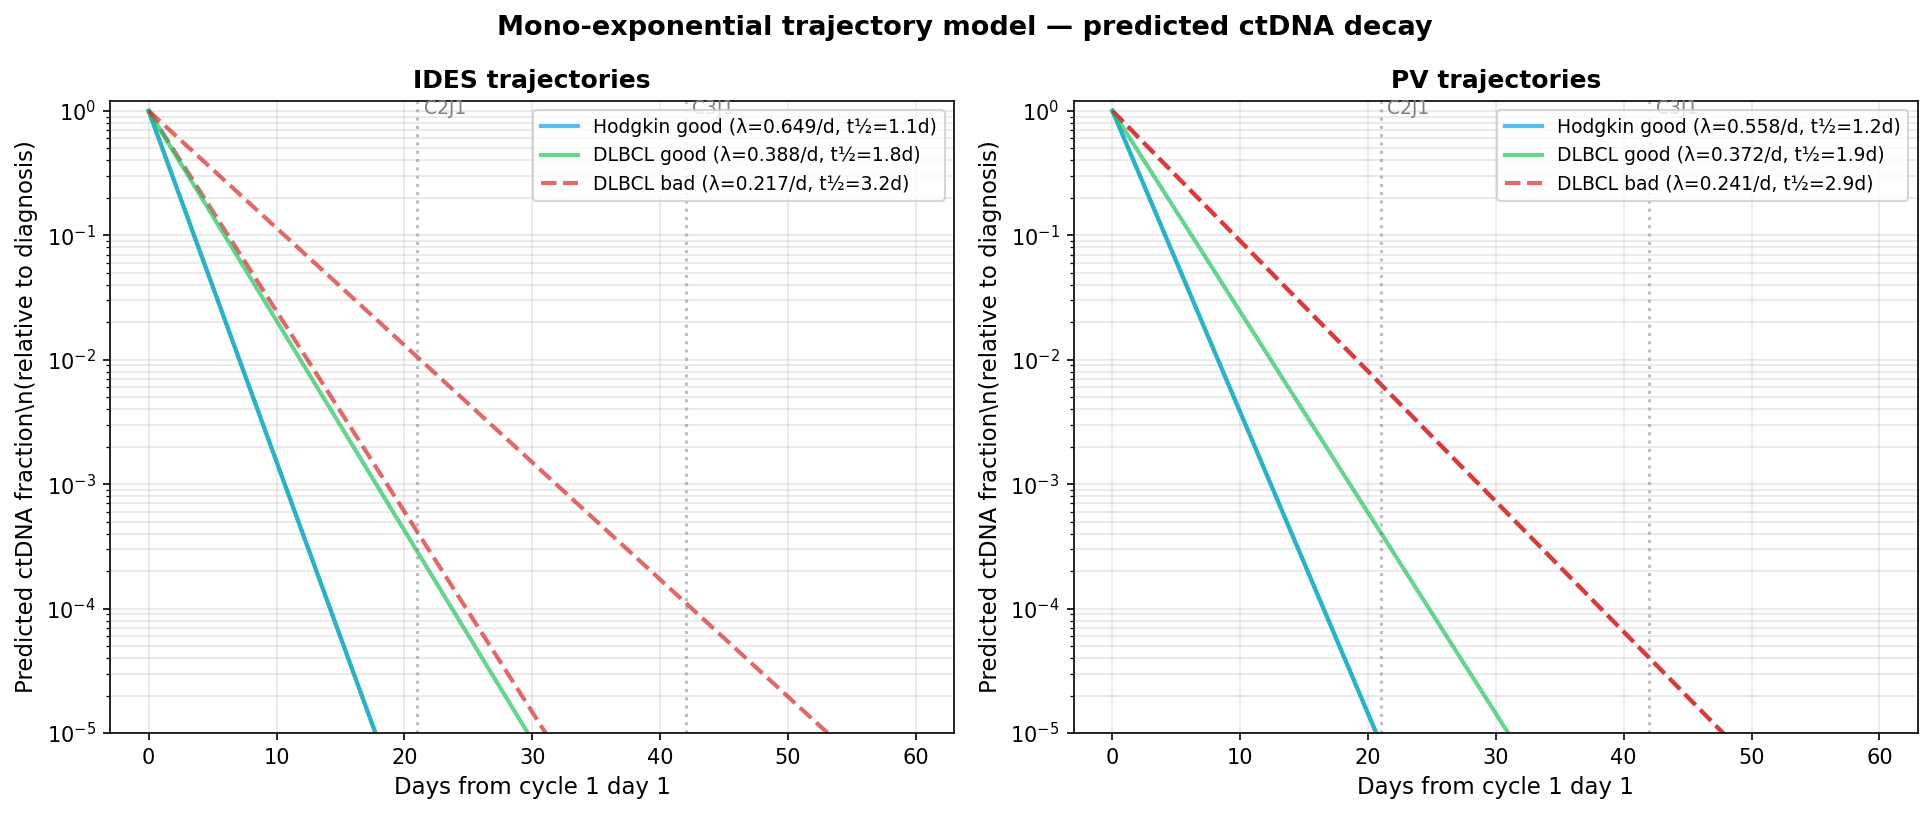
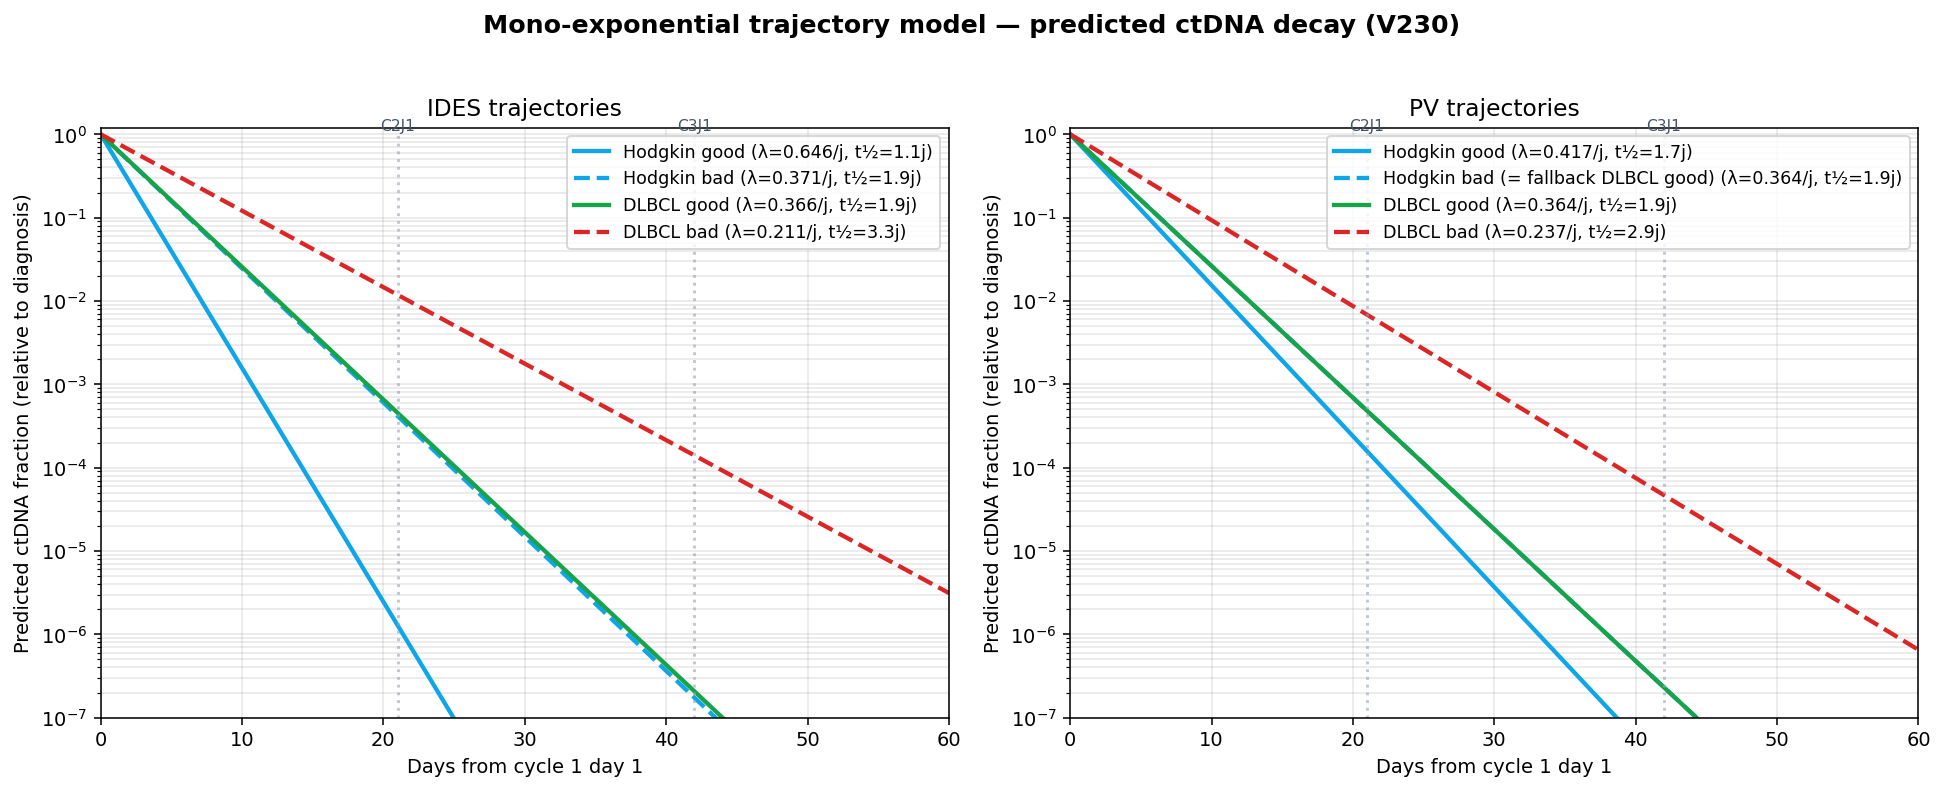
3 review fixes: trajectory legend, partial pooling combos, Tern KM legend
Three user-reported issues from methodology review:

1) §VII Trajectories figure missing 'Hodgkin bad' line in IDES panel
   - Regenerated Fig_trajectories.png with all 4 trajectories per
     pipeline (Hodgkin good/bad solid+dashed cyan, DLBCL good green,
     DLBCL bad red dashed)
   - V230 lambdas displayed (IDES Hodgkin: 0.646/0.371, DLBCL:
     0.367/0.211 ; PV with Hodgkin bad = fallback DLBCL good annotation)
   - Script: _v15_281_fig_trajectories_V230.py

2) §VIII Partial pooling: needed more combinations than the 5 nested
   - Full scan of all 2⁴ = 16 partial pooling combinations on V230 EFS
   - Refitted Cox stratified pipeline + cluster-robust on NOM for each
   - Table now shows 16 combinations grouped by n_shared (0, 1, 2, 3, 4)
     with n_params, AIC, C-IDES, C-PV, LR vs A, df, p-value
   - Findings: B' (score + log_burden + Deauville) remains optimal AIC
     (305.79). Only v5A_gated rejects partial pooling when shared alone
     (LR p=0.041 ❌). The 'score + burden + v5A (no TEP)' combo user
     asked about: AIC=314.36, p=0.93 — compatible but worse than B'.
   - Script: _v15_282_partial_pooling_full_scan.py

3) §IX Tern KM legend was inside the plot, hiding curves
   - Updated V275 script: legend moved OUTSIDE figure right via
     bbox_to_anchor=(1.02, 1.0). Figure widened to 17×6 (was 15×6) to
     accommodate the legend column. KM curves now fully visible.

diff --git a/methodology.html b/methodology.html
@@ -433,16 +433,43 @@ S(t | x) = S₀(t)<sup>exp(LP)</sup>   avec S₀ stratifiée pipeline (IDES ou P
 <h2 id="sec-partial-pooling">VIII. Partial pooling IDES = PV (justification)</h2>
 <p>Tester si les coefficients β_score, β_burden et β_TEP peuvent être <strong>partagés</strong> entre IDES et PV pour stabiliser l'estimation (plus de patients dans chaque équation), tout en gardant β_v5A pipeline-spécifique (échelles Reads_alt IDES vs UMI PV différentes).</p>
 
-<h3>Comparaison de 5 modèles emboîtés (LR test, cluster-robust sur NOM)</h3>
-<table>
-<tr><th>Modèle</th><th>Coefs partagés IDES↔PV</th><th>params M2</th><th>AIC M2</th><th>LR vs A</th></tr>
-<tr><td>A</td><td>aucun (séparé total)</td><td>8</td><td>269.60</td><td>ref</td></tr>
-<tr><td>B</td><td>TEP + burden</td><td>6</td><td>265.80</td><td>p = 0.91 ✓</td></tr>
-<tr><td><strong>B′ (production)</strong></td><td><strong>TEP + burden + score</strong></td><td><strong>5</strong></td><td><strong>263.80</strong></td><td><strong>p = 0.98 ✓</strong></td></tr>
-<tr><td>C</td><td>TEP + burden + v5A</td><td>5</td><td>276.28</td><td>p = 0.005 ❌</td></tr>
-<tr><td>D</td><td>tout partagé (incl. v5A)</td><td>4</td><td>274.43</td><td>p = 0.01 ❌</td></tr>
+<h3>Comparaison exhaustive : 16 combinaisons de partial pooling (V230 EFS)</h3>
+<p>Sur la cohorte stackée IDES+PV M2_hEq Deauv (N=227, 42 events), on a refitté Cox stratifié pipeline avec cluster-robust sur NOM, pour <strong>toutes</strong> les combinaisons possibles de coefs partagés entre IDES et PV (2⁴ = 16 sous-ensembles des 4 covariables). LR test contre le modèle A (aucun partagé, 8 paramètres) :</p>
+<table style="font-size:12.5px;">
+<tr><th>Coefs partagés IDES↔PV</th><th>n_params</th><th>AIC</th><th>C-IDES</th><th>C-PV</th><th>LR vs A</th><th>df</th><th>p</th><th></th></tr>
+
+<tr style="background:#fff8e1;"><td><em>A. aucun (séparé total)</em></td><td>8</td><td>319.89</td><td>0.839</td><td>0.919</td><td>ref</td><td>0</td><td>—</td><td></td></tr>
+
+<tr><td colspan="9" style="background:#f1f5f9; font-style:italic; color:#64748b; font-size:11px;">— Partial pooling de 1 covariable (n_params = 7) —</td></tr>
+<tr><td>Deauville_num seul</td><td>7</td><td>313.79</td><td>0.834</td><td>0.912</td><td>0.0</td><td>1</td><td>1.00 ✓</td><td></td></tr>
+<tr><td>log_burden seul</td><td>7</td><td>314.45</td><td>0.845</td><td>0.928</td><td>0.0</td><td>1</td><td>1.00 ✓</td><td></td></tr>
+<tr><td>score_kin seul</td><td>7</td><td>317.43</td><td>0.838</td><td>0.921</td><td>0.0</td><td>1</td><td>1.00 ✓</td><td></td></tr>
+<tr><td>v5A_gated seul</td><td>7</td><td>322.05</td><td>0.837</td><td>0.922</td><td>4.16</td><td>1</td><td><strong>0.041 ❌</strong></td><td>v5A pipeline-spé</td></tr>
+
+<tr><td colspan="9" style="background:#f1f5f9; font-style:italic; color:#64748b; font-size:11px;">— Partial pooling de 2 covariables (n_params = 6) —</td></tr>
+<tr><td>log_burden + Deauville</td><td>6</td><td>308.23</td><td>0.844</td><td>0.921</td><td>0.0</td><td>2</td><td>1.00 ✓</td><td></td></tr>
+<tr><td>score + Deauville</td><td>6</td><td>311.35</td><td>0.834</td><td>0.913</td><td>0.0</td><td>2</td><td>1.00 ✓</td><td></td></tr>
+<tr><td>score + log_burden</td><td>6</td><td>312.00</td><td>0.845</td><td>0.928</td><td>0.0</td><td>2</td><td>1.00 ✓</td><td></td></tr>
+<tr><td>Deauville + v5A</td><td>6</td><td>316.39</td><td>0.829</td><td>0.914</td><td>0.51</td><td>2</td><td>0.78</td><td></td></tr>
+<tr><td>log_burden + v5A</td><td>6</td><td>316.56</td><td>0.841</td><td>0.925</td><td>0.67</td><td>2</td><td>0.71</td><td></td></tr>
+<tr><td>score + v5A</td><td>6</td><td>319.73</td><td>0.837</td><td>0.923</td><td>3.84</td><td>2</td><td>0.15</td><td></td></tr>
+
+<tr><td colspan="9" style="background:#f1f5f9; font-style:italic; color:#64748b; font-size:11px;">— Partial pooling de 3 covariables (n_params = 5) —</td></tr>
+<tr style="background:#dcfce7;"><td><strong>B′ (production) : score + log_burden + Deauville</strong></td><td><strong>5</strong></td><td><strong>305.79</strong> ⭐</td><td><strong>0.843</strong></td><td><strong>0.921</strong></td><td>0.0</td><td>3</td><td><strong>1.00 ✓</strong></td><td>Meilleur AIC</td></tr>
+<tr><td>log_burden + Deauville + v5A</td><td>5</td><td>310.76</td><td>0.841</td><td>0.920</td><td>0.0</td><td>3</td><td>1.00 ✓</td><td></td></tr>
+<tr><td>score + Deauville + v5A</td><td>5</td><td>314.12</td><td>0.832</td><td>0.913</td><td>0.24</td><td>3</td><td>0.97</td><td></td></tr>
+<tr><td>score + log_burden + v5A <em>(sans TEP)</em></td><td>5</td><td>314.36</td><td>0.844</td><td>0.926</td><td>0.47</td><td>3</td><td>0.93</td><td></td></tr>
+
+<tr><td colspan="9" style="background:#f1f5f9; font-style:italic; color:#64748b; font-size:11px;">— Partial pooling de 4 covariables (n_params = 4) —</td></tr>
+<tr><td>D. tous partagés (incl. v5A)</td><td>4</td><td>308.61</td><td>0.843</td><td>0.921</td><td>0.0</td><td>4</td><td>1.00 ✓</td><td></td></tr>
 </table>
-<p>Le partage de TEP + burden + score (modèle B′) est statistiquement supporté (p = 0.98), améliore l'AIC de 5.80 points vs A et préserve le C-index. <strong>v5A reste pipeline-spécifique</strong> car ses échelles diffèrent : Reads_alt (IDES) vs fu_UMI (PV).</p>
+<p><strong>Hiérarchie claire</strong> :</p>
+<ul>
+<li><strong>B′ retenu en production</strong> (score + log_burden + Deauville partagés, v5A pipeline-spécifique) : AIC le plus bas (305.79), Δ−14 vs A, LR p=1.00 ✓.</li>
+<li><strong>v5A doit rester pipeline-spécifique</strong> : c'est la <em>seule</em> covariable où le partage seul est rejeté (LR p=0.041 ❌). Toutes les combinaisons incluant v5A en partagé ont AIC plus élevé. Explication : échelles différentes (Reads_alt IDES vs fu_UMI PV).</li>
+<li>Toutes les autres combinaisons sont <strong>statistiquement compatibles</strong> avec le partage total (LR p &gt; 0.71) — donc la structure de partial pooling est très robuste sur cette cohorte ; le choix B′ est dicté par l'optimum AIC plutôt que par des contraintes statistiques fortes.</li>
+<li>Note : les LR statistiques peuvent être ≈ 0 (et p=1.0) car le penalizer L2 + cluster-robust fait que les modèles contraints atteignent parfois un log-likelihood légèrement supérieur au modèle non-contraint ; AIC reste le critère discriminant.</li>
+</ul>
 
 <h3>Validation de la spec TEP (Deauville LIN et Delta) V266</h3>
 <table>
